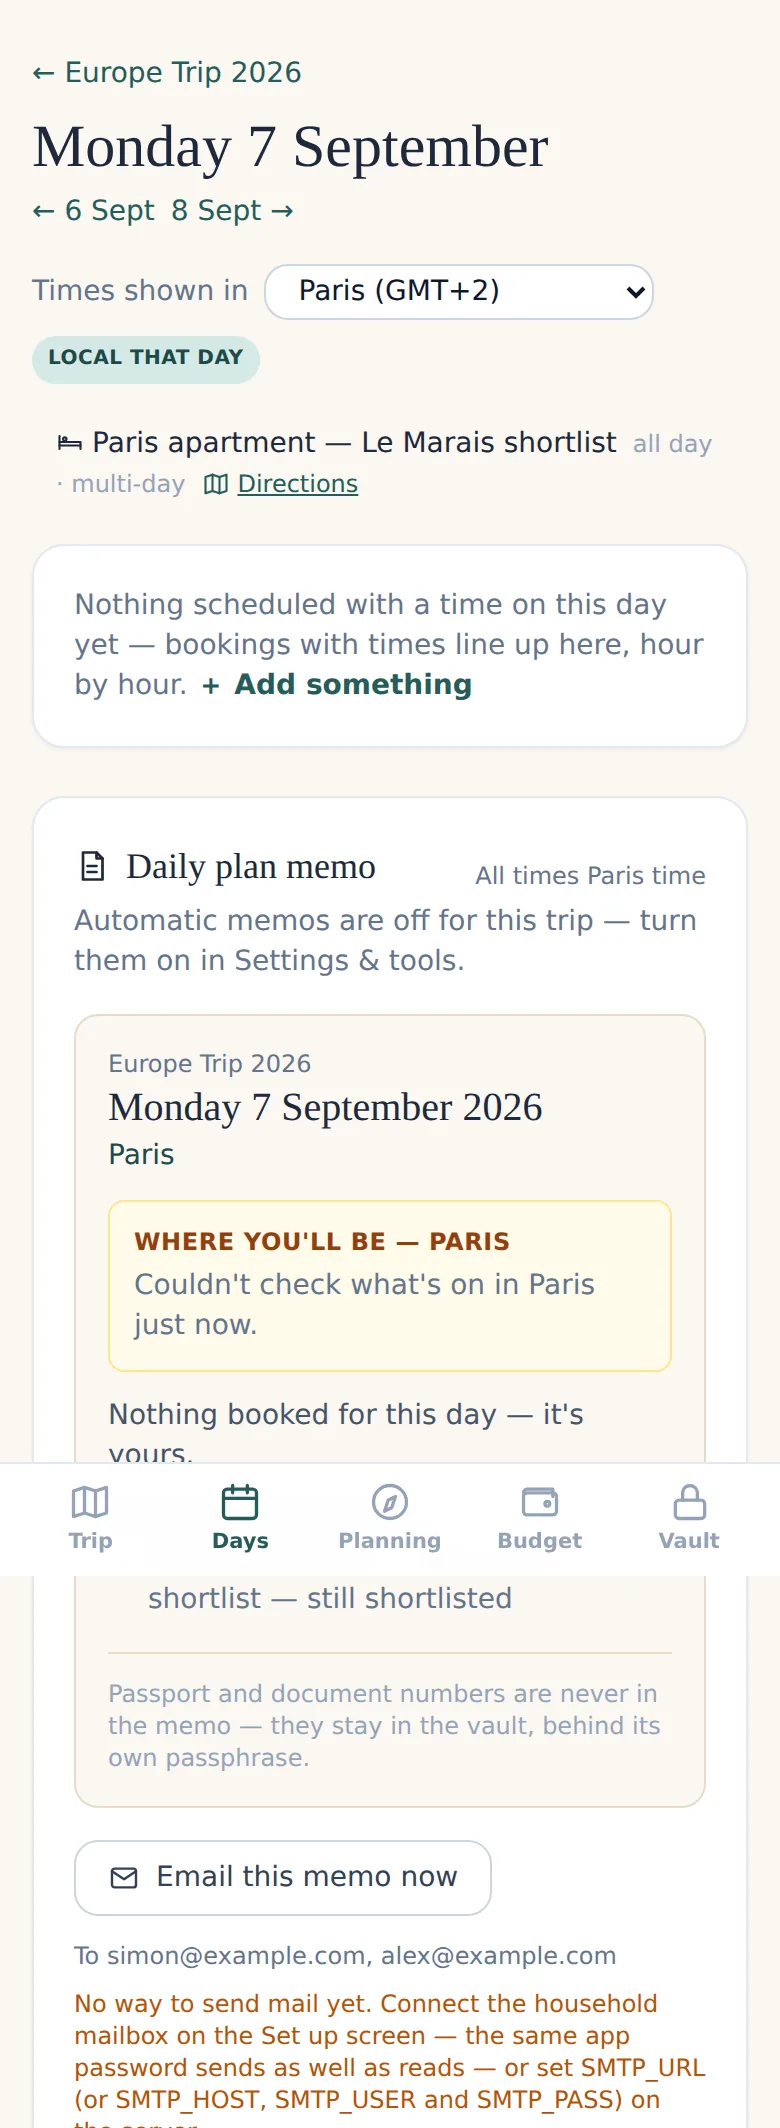
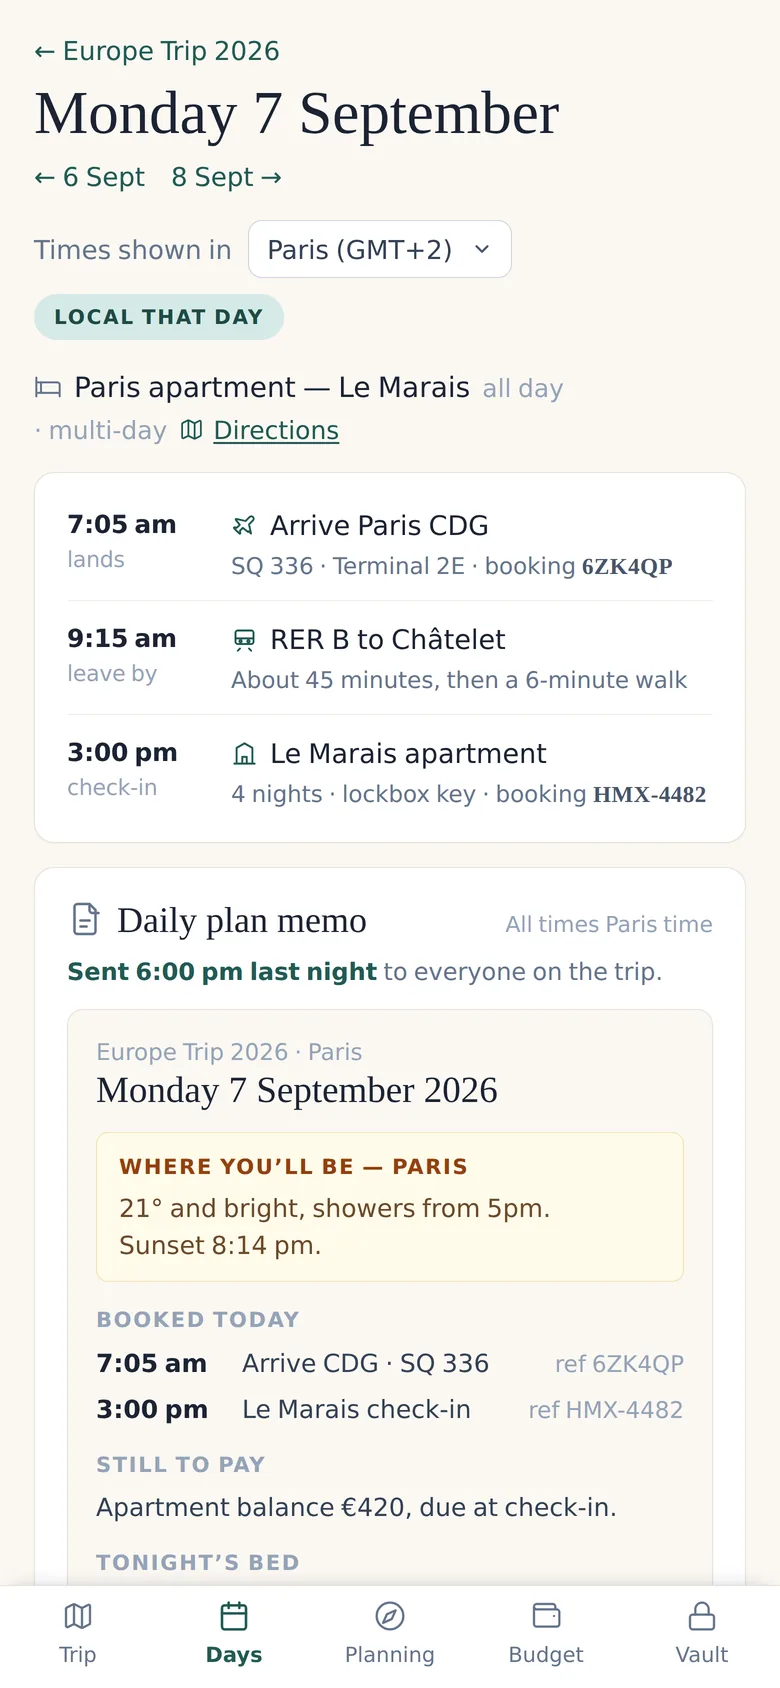
MaiCation: a day-page phone shot that shows the app working
The phone screenshot on the MaiCation page was a scrolling capture of
the sample trip in a broken state. It showed "Automatic memos are off
for this trip", "Couldn't check what's on in Paris just now", "Nothing
booked for this day", and a five-line SMTP configuration error naming
SMTP_URL, SMTP_HOST, SMTP_USER and SMTP_PASS. The bottom tab bar was
baked into the middle of the image, where the capture had scrolled past
it. The home page carried a crop of the same shot.

Replaced both with a single phone screen of the day page with the day
actually filled in: the Paris time zone and the local-that-day chip,
three bookings with the references the desk asks for, and the daily plan
memo underneath with the forecast, what's booked and what's still to
pay -- which is what the copy beside it promises. memo-phone.webp is now
780x1688 rather than 780x2128, so the image sits at a phone's proportions
instead of towering over the text beside it.

The image is a rendering of the day page rather than a capture: the app
needs an account to reach. It matches the fonts, palette and components
of trip.webp and budget.webp.

Claude-Session: https://claude.ai/code/session_01GQRaxbXg3YnWr1K54JGyxZ

diff --git a/maication/index.html b/maication/index.html
@@ -201,7 +201,7 @@
     <h2>On the phone, once you're away</h2>
     <div class="pair">
       <div class="phone">
-        <img src="/maication/assets/memo-phone.webp" width="780" height="2128" alt="The day page for Monday 7 September on a phone: the time zone in use, the Paris apartment check-in with its reference, and the daily memo with what needs doing." loading="lazy">
+        <img src="/maication/assets/memo-phone.webp" width="780" height="1688" alt="The day page for Monday 7 September on a phone: the time zone in use, the day’s bookings with their references, and the daily memo underneath — the forecast, what’s booked and what’s still to pay." loading="lazy">
       </div>
       <div>
         <h3>The day page</h3>

diff --git a/index.html b/index.html
@@ -852,7 +852,7 @@
       </div>
     </div>
     <div class="entry-vis">
-      <img class="entry-shot" src="/maication/assets/memo-phone-short.webp" width="780" height="1448" alt="MaiCation's day page on a phone: Monday 7 September in Paris, the apartment check-in with its reference, and the daily memo.">
+      <img class="entry-shot" src="/maication/assets/memo-phone-short.webp" width="780" height="1448" alt="MaiCation’s day page on a phone: Monday 7 September in Paris, the day’s bookings with their references, and the daily memo.">
       <p class="vignette-note">The day page, on a phone</p>
     </div>
   </article>
